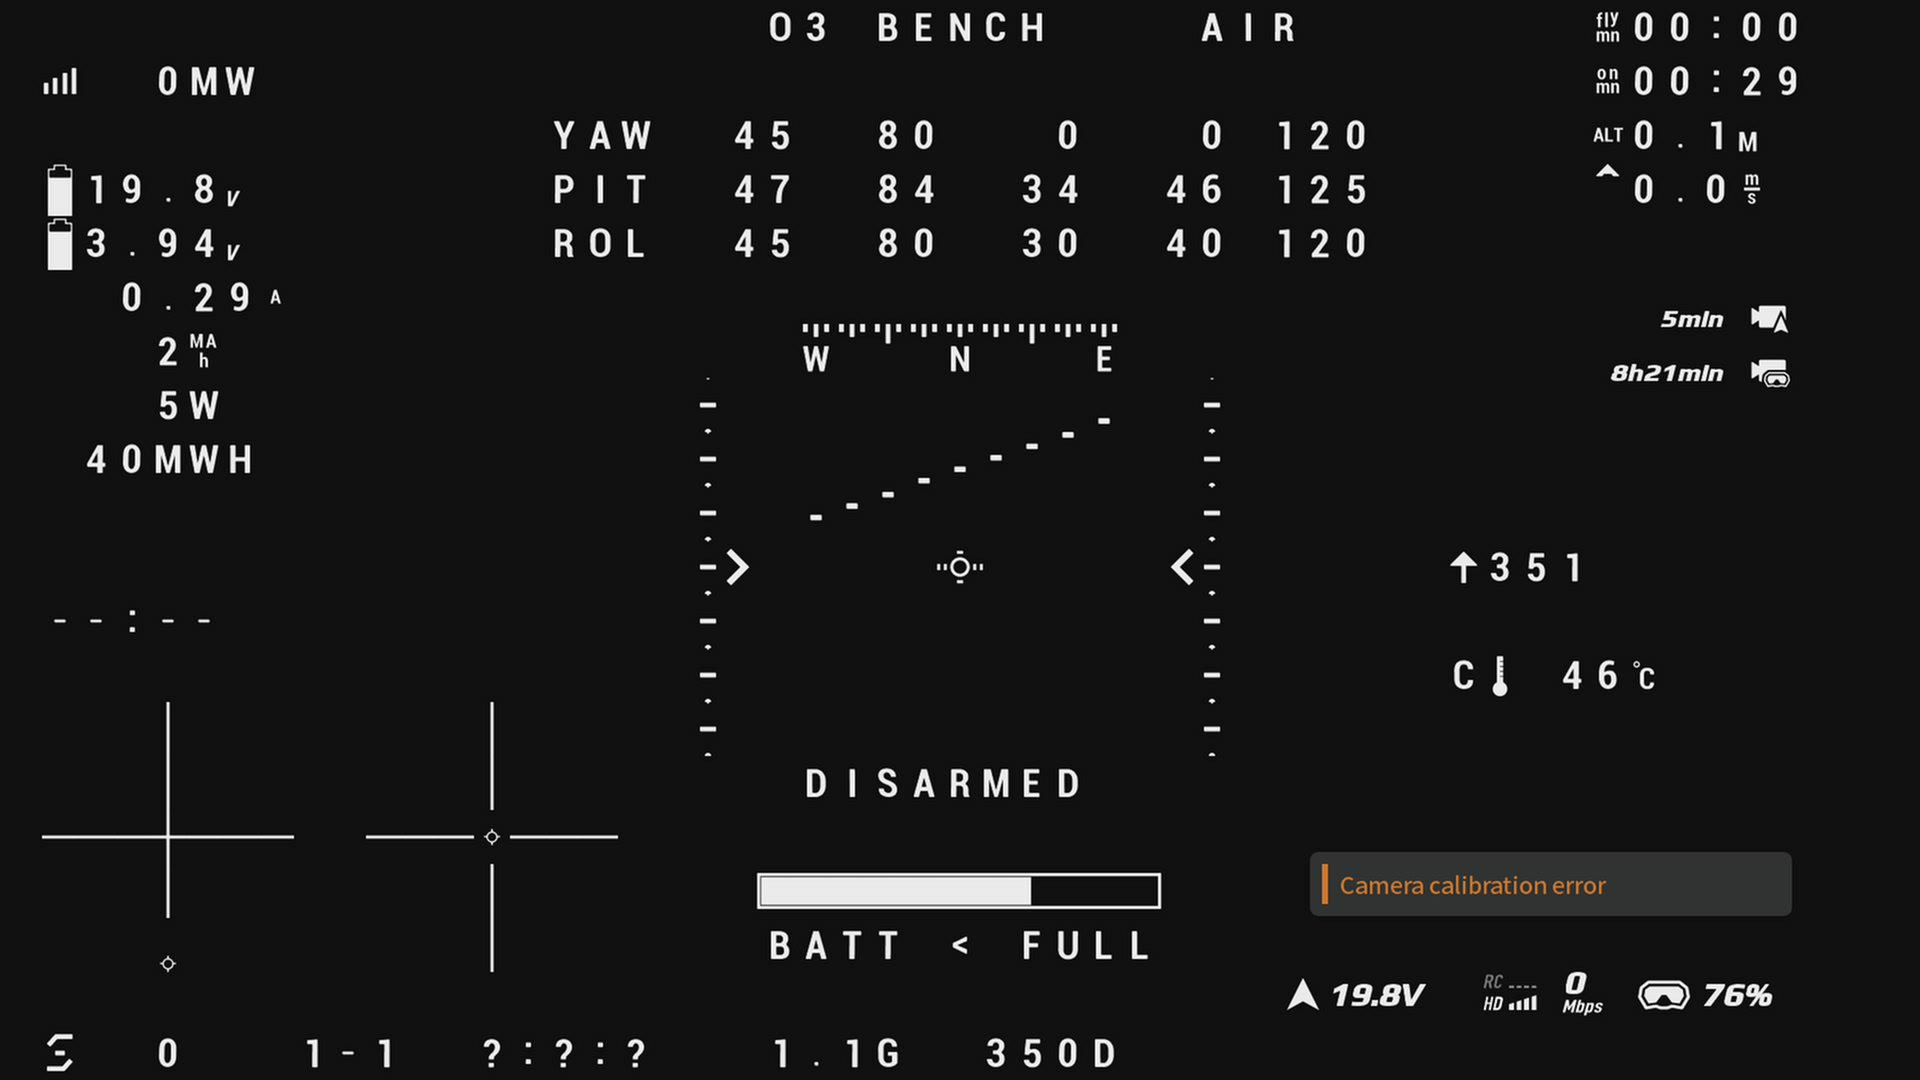
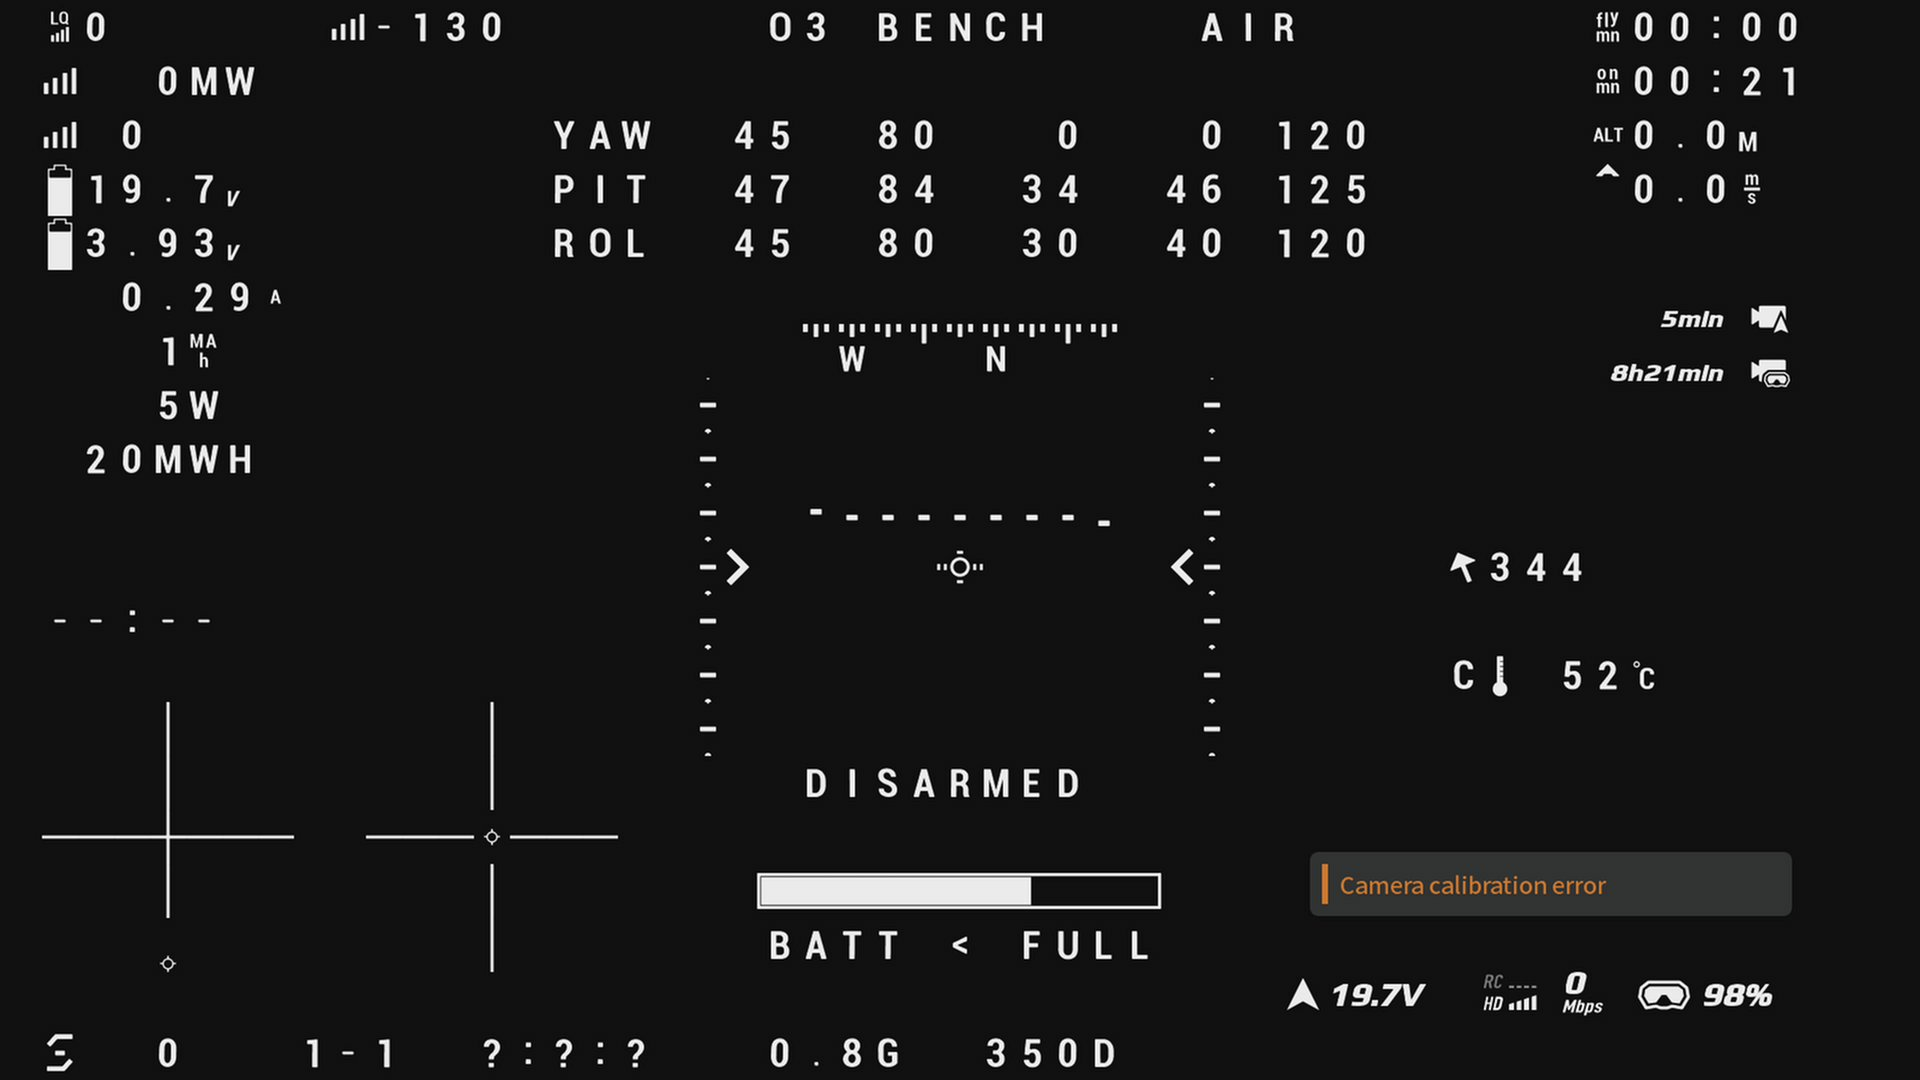
msp-osd-bench: model pictures, loops and layout from the pull request at 0b263577d

diff --git a/docs/msp-osd-bench/motion_usb.py b/docs/msp-osd-bench/motion_usb.py
@@ -1,0 +1,55 @@
+"""motion_usb.py OUT SECS [DELAY]: no sniffer. While the FC is moved by hand: goggles snapshots 2/s, and over USB MSP
+the attitude and the MSP_DISPLAYPORT debug values (bytes and cells of the last frame, DJI screen load, writes held)."""
+import sys, time, serial, urllib.request, io, threading, os, pickle, struct
+from PIL import Image
+FC, SNAP = '/dev/cu.usbmodem205C327F34561', 'http://192.168.11.164/snapshot'
+OUT = sys.argv[1]; SECS = float(sys.argv[2]); DELAY = float(sys.argv[3]) if len(sys.argv) > 3 else 0
+os.makedirs(OUT, exist_ok=True)
+
+
+def lit_cells(im):
+    W, H = im.size; cw, ch = W / 53, H / 20; out = set()
+    for r in range(20):
+        for c in range(53):
+            if (r >= 15 and c >= 35) or (5 <= r <= 7 and c >= 44): continue
+            x0, y0 = int(c * cw) + 3, int(r * ch) + 5
+            if max(im.getpixel((x, y)) for x in range(x0, int((c + 1) * cw) - 3, 3) for y in range(y0, int((r + 1) * ch) - 5, 3)) > 110: out.add((r, c))
+    return out
+
+
+
+def msp(u, cmd):
+    u.reset_input_buffer(); u.write(b'$M<' + bytes([0, cmd, cmd])); end = time.time() + 0.3; r = b''
+    while time.time() < end:
+        r += u.read(128); i = r.find(b'$M>')
+        if i >= 0 and len(r) >= i + 6 + r[i + 3]: return r[i + 5:i + 5 + r[i + 3]]
+    return None
+
+
+time.sleep(DELAY)
+print('GO', flush=True)
+stop = time.time() + SECS; snaps = []; att = []; dbg = []
+def shots():
+    while time.time() < stop:
+        t = time.time()
+        try: snaps.append((t, urllib.request.urlopen(SNAP, timeout=3).read()))
+        except Exception: pass
+        time.sleep(max(0, 0.5 - (time.time() - t)))
+th = threading.Thread(target=shots, daemon=True); th.start()
+u = serial.Serial(FC, 115200, timeout=0.05)
+while time.time() < stop:
+    a = msp(u, 108)
+    if a and len(a) >= 6: att.append((time.time(),) + struct.unpack('<hhh', a[:6]))
+    d = msp(u, 254)
+    if d and len(d) >= 8: dbg.append((time.time(),) + struct.unpack('<4h', d[:8]))
+    time.sleep(0.05)
+th.join(5)
+pickle.dump({'snaps': snaps, 'att': att, 'dbg': dbg}, open(OUT + 'motion.pkl', 'wb'))
+cells = [len(lit_cells(Image.open(io.BytesIO(b)).convert('L'))) for _, b in snaps]
+if snaps: open(OUT + 'mid.jpg', 'wb').write(snaps[len(snaps) // 2][1])
+full = max(cells, default=0); roll = [x[1] / 10 for x in att]
+load = sorted(x[3] for x in dbg) or [0]; byt = sorted(x[1] for x in dbg) or [0]
+lines = [f'snapshots {len(cells)}: lit cells min {min(cells, default=0)} max {full}; complete (>= max-25) {sum(c >= full - 25 for c in cells)}',
+         f'roll {min(roll, default=0):.0f}..{max(roll, default=0):.0f} deg over {len(att)} samples',
+         f'debug {len(dbg)} samples: DJI load median {load[len(load)//2]} max {load[-1]} B (budget 902); bytes of last frame median {byt[len(byt)//2]} max {byt[-1]}; writes held max {max((x[4] for x in dbg), default=0)}']
+print('\n'.join(lines)); open(OUT + 'results.txt', 'w').write('\n'.join(lines) + '\n')

diff --git a/docs/msp-osd-bench/motion_gif.py b/docs/msp-osd-bench/motion_gif.py
@@ -1,0 +1,39 @@
+#!/usr/bin/env python3
+"""motion_gif.py LEFT.pkl RIGHT.pkl HZ OUT.gif: two runs side by side, 20 snapshots (10 s at 2/s) played at 250 ms.
+Left (master): the 10 s with the most elements missing, by lit cells. Right (PR): the 10 s with the most roll."""
+import io, pickle, sys
+from PIL import Image, ImageDraw, ImageFont
+
+src = open(__file__.replace('motion_gif.py', 'motion_usb.py')).read()
+exec(src[src.index('def lit_cells'):src.index('def msp')])   # lit_cells() of the motion scripts
+
+left, right, hz, out = sys.argv[1], sys.argv[2], sys.argv[3], sys.argv[4]
+N, W, H, GAP = 20, 638, 360, 4
+L = pickle.load(open(left, 'rb')); R = pickle.load(open(right, 'rb'))
+
+lit = [len(lit_cells(Image.open(io.BytesIO(b)).convert('L'))) for _, b in L['snaps']]
+i0 = min(range(len(lit) - N + 1), key=lambda i: sum(lit[i:i + N]))
+
+def roll_span(i):
+    t0, t1 = R['snaps'][i][0], R['snaps'][i + N - 1][0]
+    r = [a[1] for a in R['att'] if t0 <= a[0] <= t1]
+    return (max(r) - min(r)) if r else 0
+j0 = max(range(len(R['snaps']) - N + 1), key=roll_span)
+
+try: font = ImageFont.truetype('/System/Library/Fonts/Helvetica.ttc', 22)
+except Exception: font = ImageFont.load_default()
+
+def label(im, text, colour):
+    d = ImageDraw.Draw(im, 'RGBA'); x, y = 8, H - 44
+    w = d.textlength(text, font=font)
+    d.rectangle((x, y, x + w + 12, y + 32), fill=(0, 0, 0, 170)); d.text((x + 6, y + 3), text, font=font, fill=colour)
+
+frames = []
+for k in range(N):
+    f = Image.new('RGB', (2 * W + GAP, H), (110, 110, 110))
+    a = Image.open(io.BytesIO(L['snaps'][i0 + k][1])).convert('RGB').resize((W, H))
+    b = Image.open(io.BytesIO(R['snaps'][j0 + k][1])).convert('RGB').resize((W, H))
+    label(a, f'master, {hz} Hz', (240, 110, 100)); label(b, f'this PR, {hz} Hz', (140, 230, 140))
+    f.paste(a, (0, 0)); f.paste(b, (W + GAP, 0)); frames.append(f)
+frames[0].save(out, save_all=True, append_images=frames[1:], duration=250, loop=0, optimize=True)
+print(out, 'left from', i0, 'lit', min(lit[i0:i0 + N]), '-', max(lit[i0:i0 + N]), '; right from', j0, 'roll span', roll_span(j0) / 10, 'deg')

diff --git a/docs/msp-osd-bench/cms_usb.py b/docs/msp-osd-bench/cms_usb.py
@@ -1,0 +1,48 @@
+"""cms_usb.py OUT steps...: drive CMS with MSP_SET_RAW_RC over USB (RX_MSP), snapshot after every step. No sniffer."""
+import sys, time, serial, urllib.request, threading, os, struct, pickle
+FC, SNAP = '/dev/cu.usbmodem205C327F34561', 'http://192.168.11.164/snapshot'
+OUT = sys.argv[1]; os.makedirs(OUT, exist_ok=True)
+MID = [1500, 1500, 1500, 1500, 1000, 1000, 1000, 1000]   # AETR: roll, pitch, throttle, yaw, aux
+sticks = list(MID); run = True
+u = serial.Serial(FC, 115200, timeout=0.05)
+
+
+def frame(cmd, payload):
+    c = len(payload) ^ cmd
+    for b in payload: c ^= b
+    return b'$M<' + bytes([len(payload), cmd]) + payload + bytes([c])
+
+
+def rc():
+    while run:
+        u.write(frame(200, struct.pack('<8H', *sticks))); u.read(64); time.sleep(0.02)
+
+
+def snap(name):
+    try: open(OUT + name + '.jpg', 'wb').write(urllib.request.urlopen(SNAP, timeout=3).read())
+    except Exception as e: print('snapshot failed', name, e)
+
+
+def hold(name, **kw):
+    global sticks
+    sticks = list(MID)
+    for k, v in kw.items(): sticks[{'roll': 0, 'pitch': 1, 'thr': 2, 'yaw': 3}[k]] = v
+    time.sleep(0.4 if kw else 0.6)
+    sticks = list(MID); time.sleep(1.0)
+    log.append((time.time(), name)); snap(name); print(name, flush=True)
+
+
+data = []; log = []; t0 = time.time()
+threading.Thread(target=rc, daemon=True).start()
+time.sleep(2); snap('00-start')
+# steps from argv: name=stick:value[,stick:value][@hold_s]  e.g. enter=yaw:1000,pitch:2000@1.5  down=pitch:1000
+for k, st in enumerate(sys.argv[2:]):
+    name, _, spec = st.partition('=')
+    spec, _, h = spec.partition('@')
+    sticks = list(MID)
+    for kv in filter(None, spec.split(',')):
+        a, v = kv.split(':'); sticks[{'roll': 0, 'pitch': 1, 'thr': 2, 'yaw': 3}[a]] = int(v)
+    time.sleep(float(h or 0.4)); sticks = list(MID); time.sleep(1.2)
+    log.append((time.time(), name)); snap(f'{k+1:02d}-{name}'); print(k + 1, name, flush=True)
+run = False; time.sleep(0.3)
+pickle.dump({'t0': t0, 'log': log}, open(OUT + 'cms.pkl', 'wb'))

diff --git a/docs/msp-osd-bench/README.md b/docs/msp-osd-bench/README.md
@@ -41,6 +41,8 @@ Python 3 with `pyserial` and `Pillow`.
 | `msplab.py` | The fake flight controller. Answers the air unit's MSP polls like Betaflight 4.5, disarmed, keeps a DisplayPort session alive, and runs short experiments (sub-commands, attributes, canvas, font pages, persistence, MSP v2 and more), each with snapshots and a contact sheet. Also the library of the other two. |
 | `fastlab.py` | Finds how much OSD the goggles accept in one frame, by bisection. Read its docstring first. |
 | `osdrate.py` | How fast the goggles really redraw, and whether the frames tear. |
+| `motion_usb.py`, `cms_usb.py` | The flight controller runs without a sniffer: snapshots, attitude and the driver's debug values over USB; the CMS driven with `MSP_SET_RAW_RC`. |
+| `motion_gif.py` | The before/after loops from two motion runs. |
 | `budget_model.py` | The size of a screen in the goggles' encoding (see "The exact limit"), checked against every bisection below. |
 | `streams/` | Raw MSP byte streams of real Betaflight OSD frames, see `streams/README.txt`. |
 
@@ -126,6 +128,9 @@ read row by row as 265 little-endian 32 bit words, each coded in LEB128 (1 byte 
 - With the goggles in INAV mode the encoding is a different one, not modelled: a cell costs 17 to 20 units of about
   10200 depending on its code, and where it falls in a word hardly matters.
 
+![Random screens: the bytes decide, not the cells](images/model-random.jpg)
+![The same 400 cells, shifted by two: one shown, one discarded](images/model-align.jpg)
+![850 cells of 0x01 shown, 638 of X discarded](images/model-glyph.jpg)
 ![Erasing with spaces against erasing with 0](images/erase-zero.jpg)
 
 New `fastlab.py` groups: `cheap` (every code above the X limit), `mix`, `checker`, `align`, `erase`, `release`, `nul`,
@@ -167,7 +172,10 @@ stick overlays, PIDs, GPS, timers, battery and power values and warnings:
 The flight controller was turned by hand for 30 s per run so that the horizon and values change every frame, and the
 goggles were snapshotted twice a second. These loops play 10 s of those snapshots at twice the speed, master on the
 left and the pull request on the right. For master they are the 10 s of the run with the most elements missing, by
-the lit pixels of the snapshots; the two sides are separate runs, not the same moment:
+the lit pixels of the snapshots; the two sides are separate runs, not the same moment. Master was run on 2026-10-13
+with the sniffer; the right side is the pull request at 0b263577d (the exact DJI limit, 0 for blank cells) on
+2026-10-14, the 10 s with the most roll, run without a sniffer (`motion_usb.py`); the layout picture is from that run.
+All 52 and 60 snapshots of those runs show the whole screen. `motion_gif.py` builds the loops:
 
 ![master and the pull request at osd_framerate_hz 12](images/motion-12hz.gif)
 ![master and the pull request at osd_framerate_hz 30](images/motion-30hz.gif)
